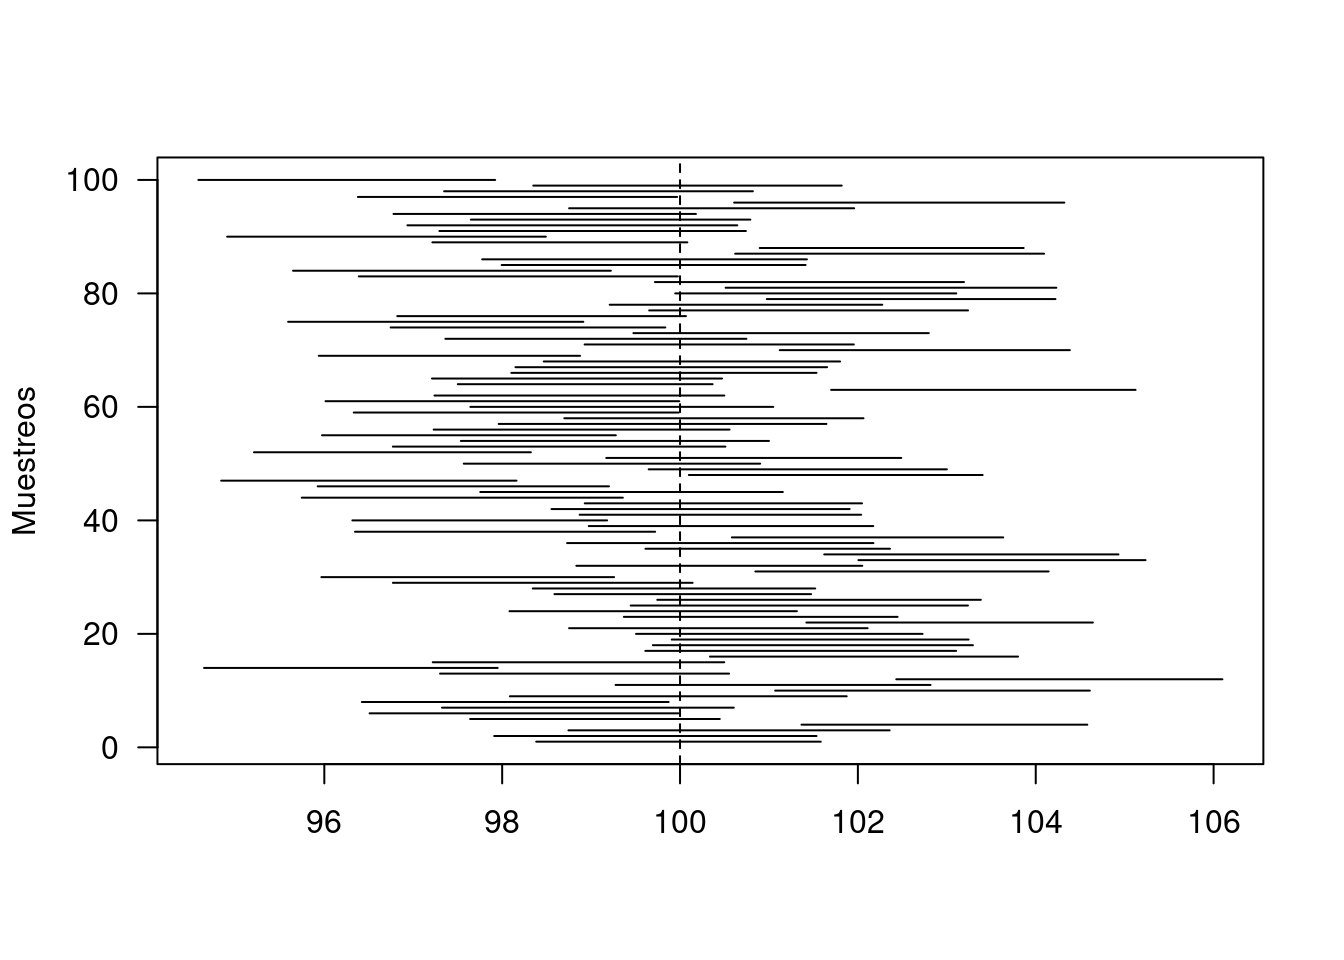
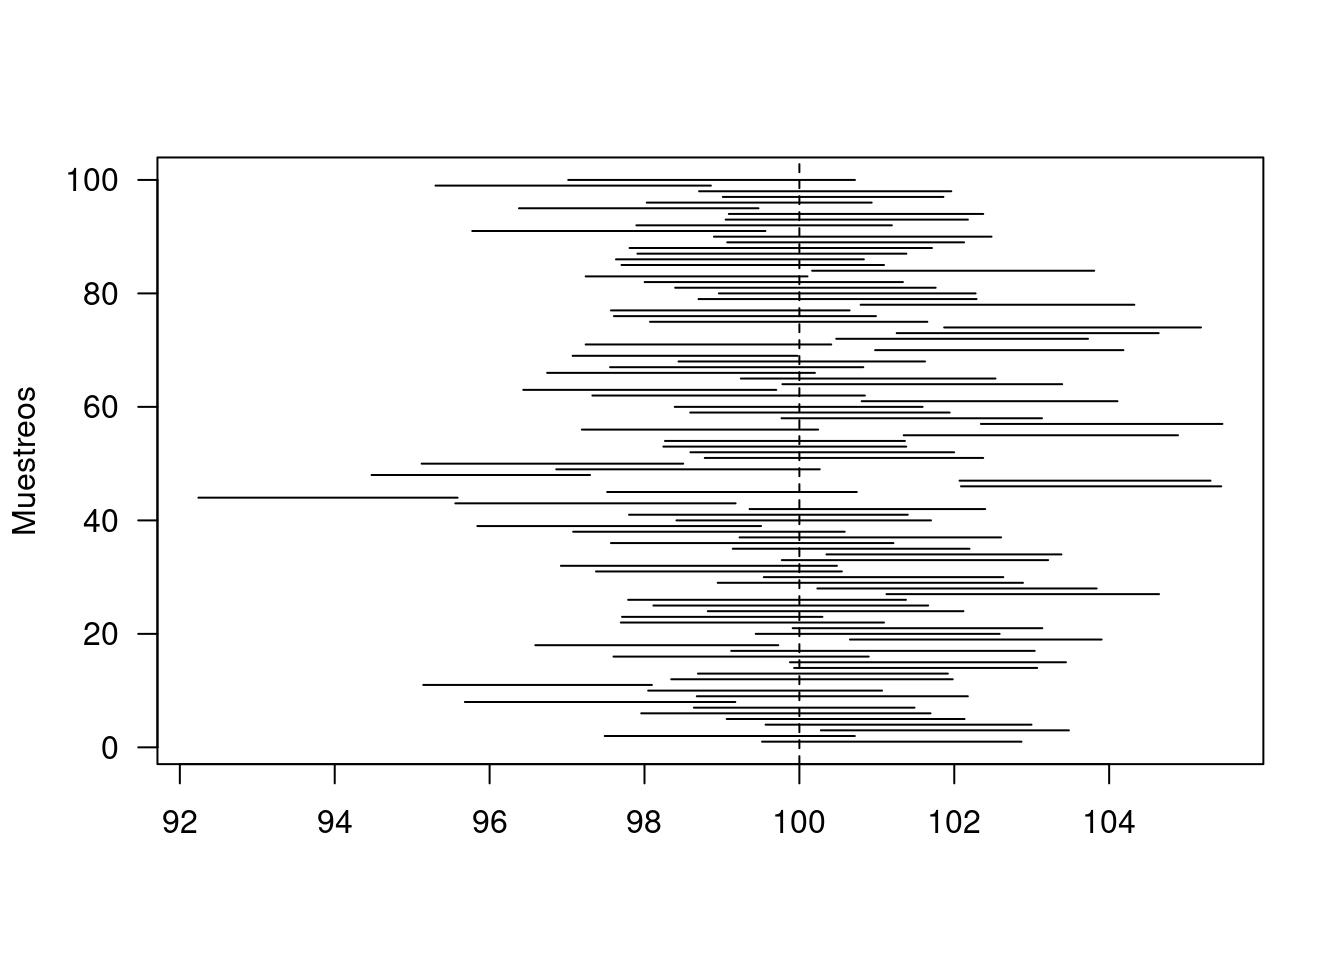
areglo taller 402

diff --git a/codigo402.html b/codigo402.html
@@ -514,6 +514,9 @@ div.tocify {
       <a href="Taller_continuas.html">Taller Continuas</a>
     </li>
     <li>
+      <a href="TallerIC.html">Taller IC</a>
+    </li>
+    <li>
       <a href="Guia_trabajo.html">Trabajo final</a>
     </li>
   </ul>
@@ -583,7 +586,7 @@ for(i in 1:100) {
 <p>Como ejemplo se estima un IC para la edad de las personas contagiadas de covid en Valle, para una muestra de n=1000</p>
 <pre class="r"><code>Muestra= Valle[sample(1:nrow(Valle),1000,replace=F),]
 t.test(Muestra$edad,conf.level = 0.95)$conf.int</code></pre>
-<pre><code>## [1] 40.15215 42.45385
+<pre><code>## [1] 40.57697 42.87503
 ## attr(,&quot;conf.level&quot;)
 ## [1] 0.95</code></pre>
 <p><br/><br/></p>
@@ -595,7 +598,7 @@ t.test(Muestra$edad,conf.level = 0.95)$conf.int</code></pre>
 <pre class="r"><code>Muestra= Valle[sample(1:nrow(Valle),1000,replace=F),]
 t1=table(Muestra$estado)
 prop.test(t1[1],1000, conf.level = 0.95)$conf.int</code></pre>
-<pre><code>## [1] 0.02738482 0.05229838
+<pre><code>## [1] 0.01985396 0.04192127
 ## attr(,&quot;conf.level&quot;)
 ## [1] 0.95</code></pre>
 <p><br/><br/></p>
@@ -610,7 +613,7 @@ datax=Valle1[sample(1:nrow(Valle1),100,replace=F),]
 datay=Valle2[sample(1:nrow(Valle2),100,replace=F),]
 
 var.test(datax$edad, datay$edad)$conf.int </code></pre>
-<pre><code>## [1] 0.9229305 2.0386527
+<pre><code>## [1] 0.674532 1.489967
 ## attr(,&quot;conf.level&quot;)
 ## [1] 0.95</code></pre>
 <p><br/><br/></p>
@@ -624,7 +627,7 @@ var.test(datax$edad, datay$edad)$conf.int </code></pre>
        paired = FALSE, 
        var.equal = TRUE,
        conf.level = 0.95 )$conf.int </code></pre>
-<pre><code>## [1] -1.625582  9.145582
+<pre><code>## [1] -3.281465  6.701465
 ## attr(,&quot;conf.level&quot;)
 ## [1] 0.95</code></pre>
 <p><br/><br/></p>
@@ -635,7 +638,7 @@ var.test(datax$edad, datay$edad)$conf.int </code></pre>
        paired = FALSE, 
        var.equal = FALSE,
        conf.level = 0.95 )$conf.int</code></pre>
-<pre><code>## [1] -1.626396  9.146396
+<pre><code>## [1] -3.281465  6.701465
 ## attr(,&quot;conf.level&quot;)
 ## [1] 0.95</code></pre>
 <p><br/><br/><br/></p>
@@ -647,7 +650,7 @@ var.test(datax$edad, datay$edad)$conf.int </code></pre>
 <pre class="r"><code>Muestra= Valle[sample(1:nrow(Valle),1000,replace=F),]
 t1=table(Muestra$estado)
 prop.test(c(t1[2],t1[3]),c(1000,1000), conf.level = 0.95)$conf.int</code></pre>
-<pre><code>## [1] 0.9514209 0.9765791
+<pre><code>## [1] -0.964522 -0.935478
 ## attr(,&quot;conf.level&quot;)
 ## [1] 0.95</code></pre>
 </div>
